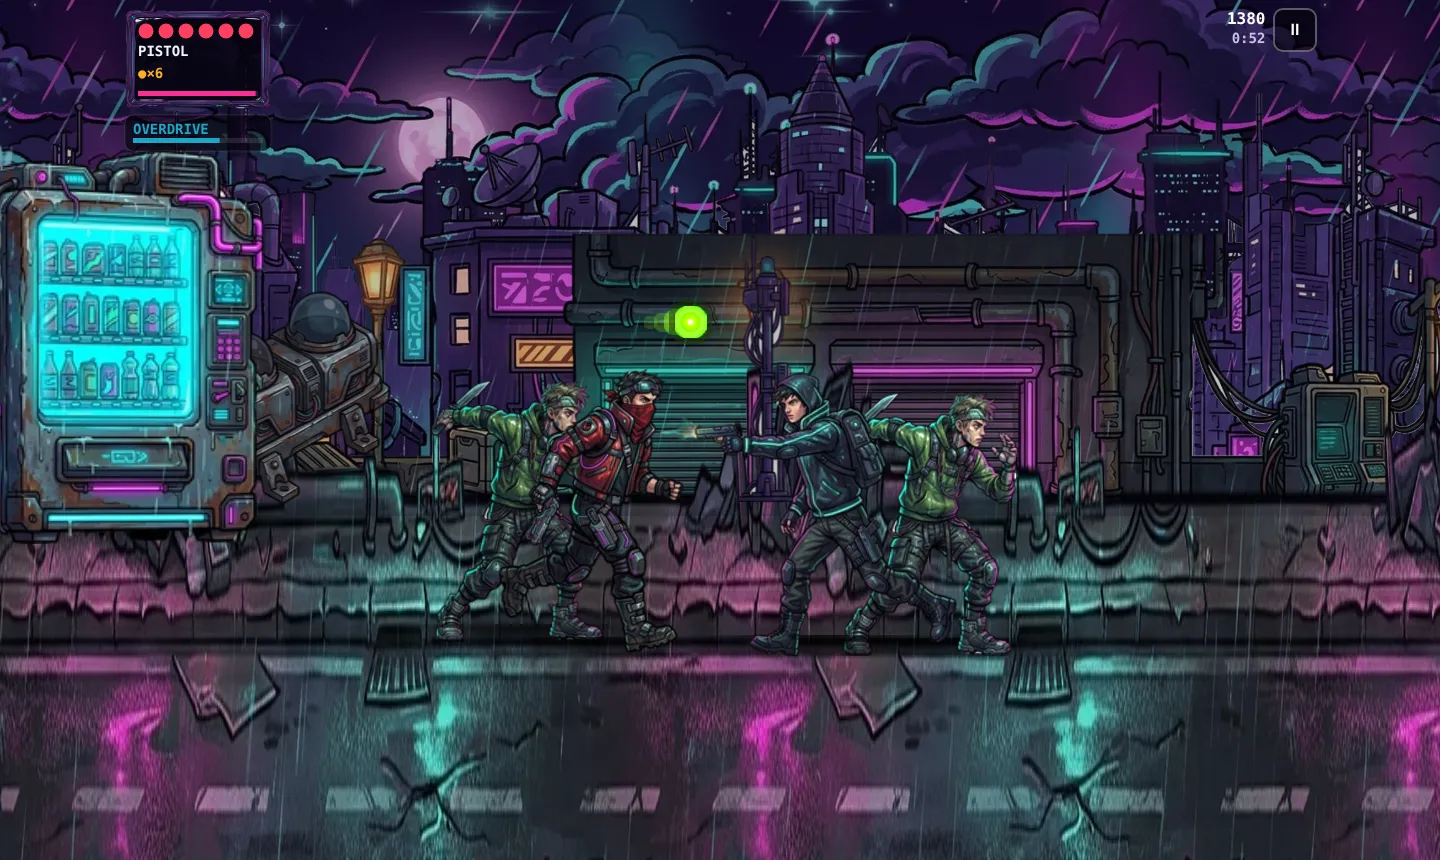
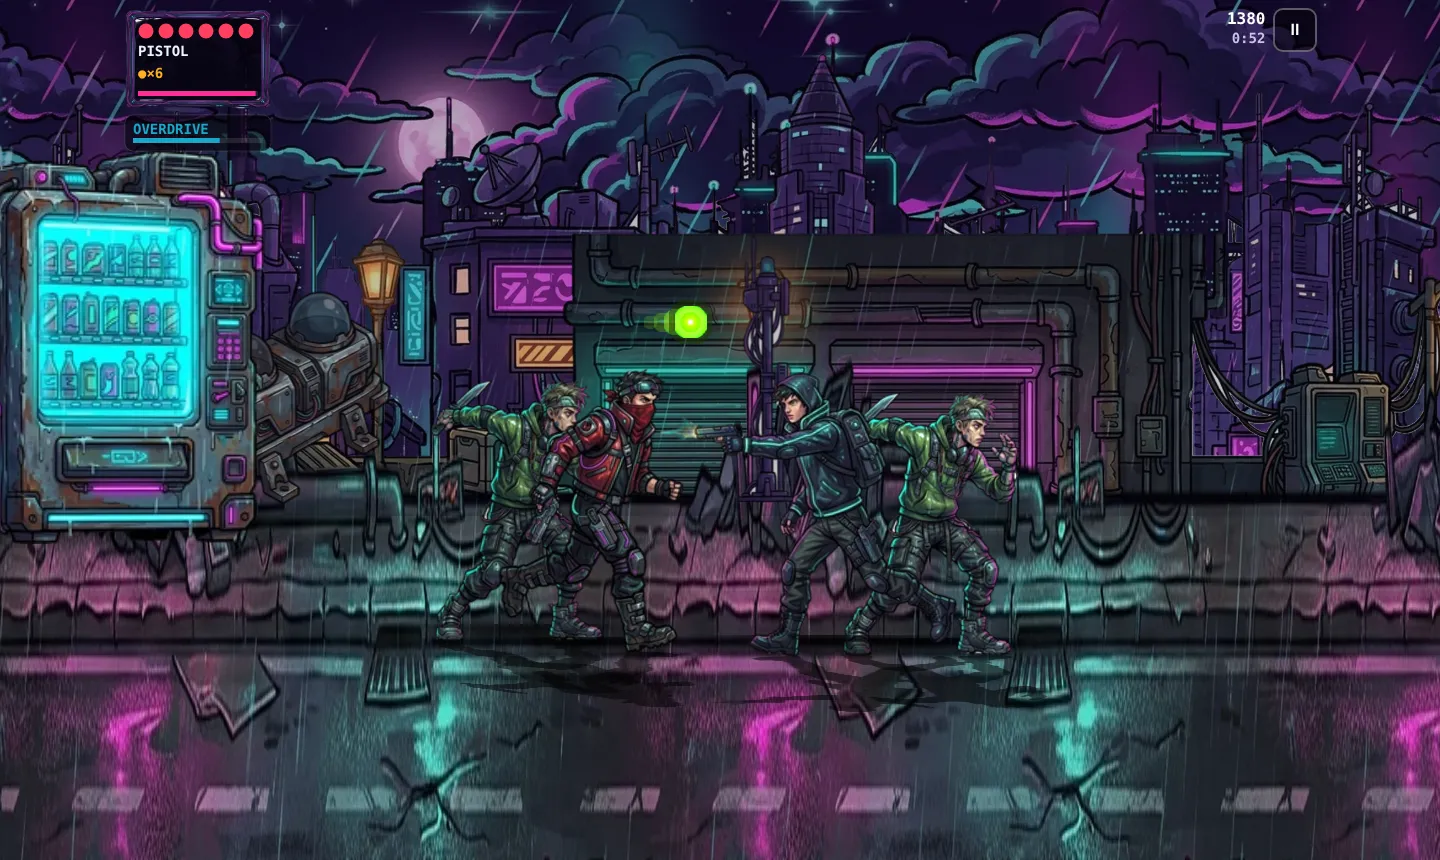
Footmove: frame-replica multiply shadows and a stable belt depth sort

Changed region(s): [[0.5312, 0.7558, 0.7188, 0.8465], [0.3125, 0.7558, 0.4688, 0.8465]]

diff --git a/games-src/nightrun/parts/art/art.js b/games-src/nightrun/parts/art/art.js
@@ -218,7 +218,8 @@ ART.footDraw=(c,who,pose,x,y,h,flip,t)=>{if(!RET.sprites)return false;const mp=A
   if(e._fa!==kp){e._fa=kp;e._f0=t;}let tt=ART.fE?t-e._f0:t;if(act==='jump'){tt=fall?o.cum[1]+tt:Math.min(tt,o.cum[1]-.001);}
   const cr=false,sc=ART.bsc(m,h),sm=ART.ANIM.sm,sq=sm.squash;const i=ART.aframe(key,tt);let sy=cr?.7:1;
   const dead=act==='die'&&who!=='kai',fade=dead?1-.85*Math.min(1,Math.max(0,tt-.4)/.8):1,ga=c.globalAlpha;
-  c.save();c.translate(x,y);if(window.FA&&FA.shadow)FA.shadow(c,m[2]*sc*.75,who==='drone'||who==='jetpack'?.6*fade:fade);
+  c.save();c.translate(x,y);if(RET.footmove&&who!=='drone'&&who!=='jetpack'&&ART.fE){c.save();c.globalCompositeOperation='multiply';c.globalAlpha=ga*.5*fade;c.filter='brightness(0)';c.transform(1,0,.7,1,0,0);c.scale(1,-.2);ART.drawAnim(c,key,tt,0,0,sc,flip,null,1);c.restore();}   /* W223 footmove (OpenBOR): the shadow is the actor's own frame, flattened onto the road and multiplied */
+  if(window.FA&&FA.shadow)FA.shadow(c,m[2]*sc*.75,who==='drone'||who==='jetpack'?.6*fade:fade);
   if(act==='run'||act==='runshoot'||act==='walk')c.rotate(sm.lean.run_deg*Math.PI/180*(flip?-1:1));
   c.globalAlpha=ga*fade;ART.drawAnim(c,key,tt,0,0,sc,flip,null,sy);if(sub&&pose==='hit'){c.globalCompositeOperation='lighter';ART.drawAnim(c,key,tt,0,0,sc,flip,.5,sy);c.globalCompositeOperation='source-over';}c.restore();return true;};   // a borrowed hit act flashes white
 }

diff --git a/games-src/nightrun/parts/street/purefoot.js b/games-src/nightrun/parts/street/purefoot.js
@@ -72,7 +72,7 @@ function pure(c){const L=IN.L(),S=F.S;if(!L||!S)return false;X.slFrame(L,1.7);  
     ART.fE=P;IN.drawWho(c,'kai',kp,P.x,P.y,P.crouch?44:P.h,P.facing<0,S.time,'#19e3ff',P.crouch);ART.fE=null;
     if(P.shotT>0&&window.AH){const a=P.aim,mq=F.mzAt&&F.mzAt(P);AH.ftMuz(c,P.w,mq?mq[0]:P.x+Math.cos(a)*28,mq?mq[1]:P.y-(P.crouch?26:44)+Math.sin(a)*20,a);}c.restore();SL.z=null;};
   const A=S.E.filter(e=>!(e.dead&&!(e.ext&&!e.remove)));A.push(P);const PS=new Set(S.pr);for(const p of S.pr)A.push(p);
-  if(SL.band)A.sort((a,b)=>(a.z==null?1:a.z)-(b.z==null?1:b.z));else A.sort((a,b)=>PS.has(b)-PS.has(a));   // belt: back to front; flat road: props first
+  if(SL.band)A.sort(RET.footmove?(a,b)=>Math.round(200*(a.z==null?1:a.z))-Math.round(200*(b.z==null?1:b.z)):(a,b)=>(a.z==null?1:a.z)-(b.z==null?1:b.z));   // footmove: depth in 1/200 steps, ties keep the list order (stable sort): no front/behind flickerelse A.sort((a,b)=>PS.has(b)-PS.has(a));   // belt: back to front; flat road: props first
   for(const a of A){if(PS.has(a))dP(a);else if(a===P)dK();else dE(a);}
   for(const e of S.E){if(e.dead)continue;SL.z=e.z;   // fire hazards as the owner's flame picture (the stage hook's lanes, marks, beams and OPEN text are code drawings: not drawn)
     if(e.fl)for(let x=e.fl.x+18;x<e.fl.x+e.fl.w;x+=30){at(c,x,FL-40,K);pic(c,'fx-ft-flame',x,FL-40,72,e.facing<0?Math.PI:0,.9);c.restore();}

diff --git a/games-src/nightrun/review-shots/W223/README.md b/games-src/nightrun/review-shots/W223/README.md
@@ -14,10 +14,12 @@ Shots: `qa/footmove-shot.js` (stepped with FOOT.sim, EB=1 waits for an enemy sho
   frame where a shot starts and impact frame where it stops (cover, Kai, the knife); player shots get two fading copies (tracer).
 - Depth: the backdrop gets a dark aerial gradient (stronger at the top) so the play plane reads in front; glowing back-street props
   drawn at .62 alpha; props get the actors' soft contact shadow; actor shadows .85 instead of .55.
+- Orchestrator lessons (OpenBOR, 20:28): actor shadows are the actor's own frame flattened onto the road and multiplied (plus the soft
+  ellipse at the feet); the belt depth sort compares depth in 1/200 steps and keeps list order on ties (no front/behind flicker).
 - Run cycle to ground speed was already on (streetfeel: frame = distance / stride), so not redone.
 
 ## Not done (why)
-- Acceleration / deceleration of Kai's velocity and knockback arcs / per-fighter hit-stop are gameplay. A tried accel (0.09 s / 0.055 s
+- Acceleration / deceleration of Kai's velocity, knockback gravity arcs and hit-stop that freezes only the two fighters change the sim (gameplay). A tried accel (0.09 s / 0.055 s
   to full speed) moved 20-run clear rates by up to 25 points (seed chaos), so it was reverted; footmove is draw-only.
 - Foes overlapping Kai (they stand inside him): AI spacing, gameplay.
 
@@ -28,13 +30,12 @@ footmove off: idle 0 / nearest 40 / gfirst 75 / dodge 65 %; on: 0 / 40 / 75 / 65
 | # | test | phone | PC | note |
 |---|---|---|---|---|
 | 1 | owner-art | 7 | 7 | only the haze gradient and the rim (derived from the owner orb) are code |
-| 2 | grayscale | 6 | 6 | actors separate a little better; the bright back props still compete |
+| 2 | grayscale | 6 | 7 | actors separate a little better; the bright back props still compete |
 | 3 | silhouette | 5 | 6 | foes stand inside Kai (AI spacing) |
 | 4 | find the player | 6 | 7 | phone: Kai merges with the foe overlapping him |
 | 5 | bullets | 7 | 7 | enemy bolt reserved green with a rim; player tracer small but visible |
 | 6 | clutter | 7 | 7 | HUD at the edges only; the beacon ring prop is the loudest mark |
-| 7 | benchmark side by side | 4 | 5 | overlap, contact shadows invisible on the dark road, big glowing beacon ring |
+| 7 | benchmark side by side | 5 | 5 | overlap, big glowing beacon ring; frame shadows now ground the fighters |
 
-Weakest three and the fix: (7)/(3) foes overlapping Kai, a spacing rule in the foe AI (gameplay task, balance check); contact shadows,
-OpenBOR-style frame-replica shadow (W222 lesson 8) instead of the radial ellipse; the beacon/holo back props, a smaller size or the owner
+Weakest three and the fix: (7)/(3) foes overlapping Kai, a spacing rule in the foe AI (gameplay task, balance check); the beacon/holo back props, a smaller size or the owner
 re-exporting them without the halo.
